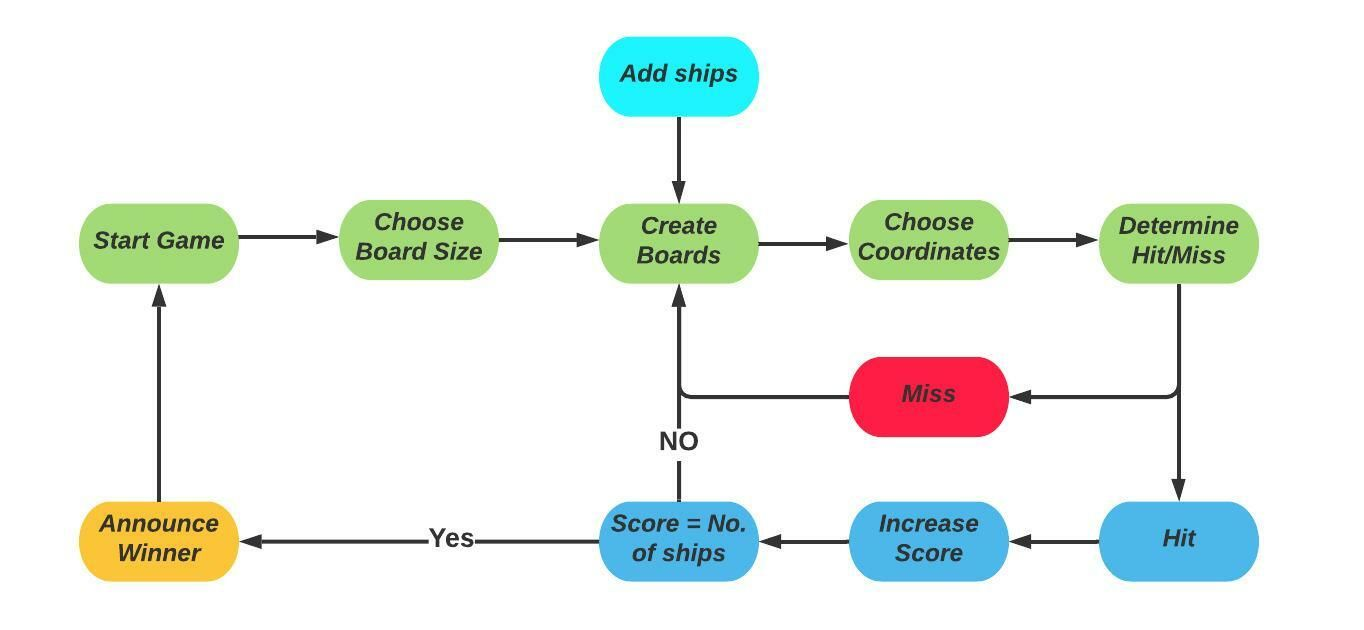
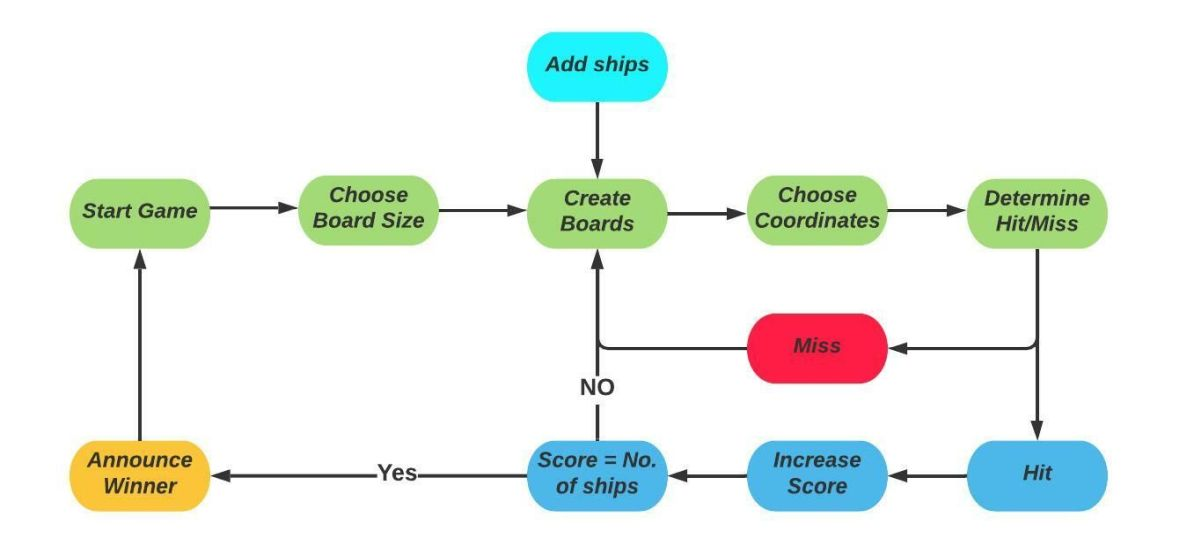
Resize data-model photo

diff --git a/README.md b/README.md
@@ -62,7 +62,7 @@ The live link to this game is below:
   - I then created the boards so that I could then work on modifying them.
   - The `run_game` function is the main function where all the other functions return back to. Having the `for` loop in this function allowed the game to continue in a circular motion like the diagram below.
 
-![Data Model](https://github.com/sams4566/battleships-game/tree/main/media/data-model.jpeg)
+![Data Model](https://github.com/sams4566/battleships-game/tree/main/media/data-model.jpg)
 
 ## Testing
   - I have tested the code thoroughly on Heroku and the terminal on Gitpod and there are no issues or errors.
